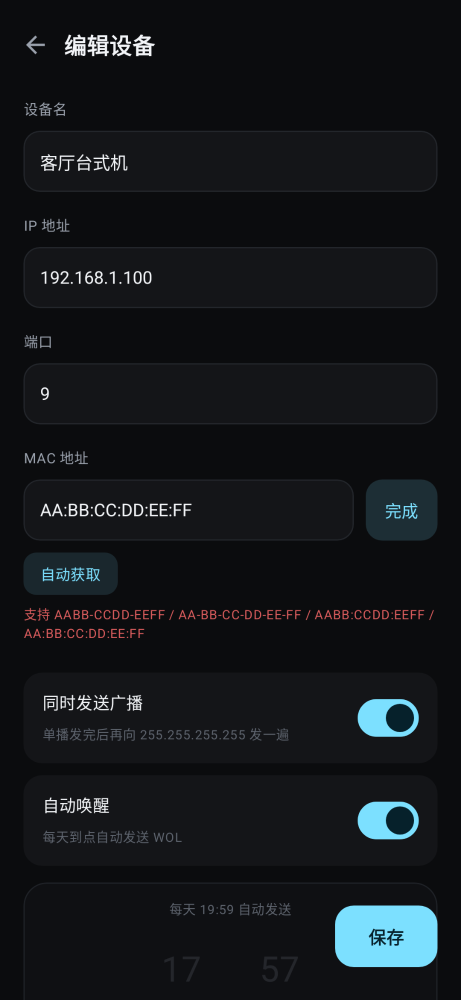
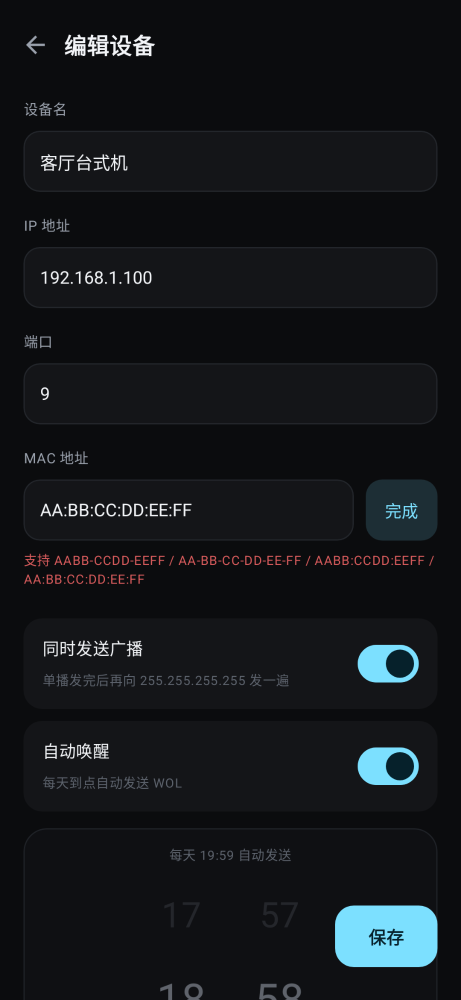
v1.0.8: 去掉 MAC 自动获取 / ICMP 报文诊断与原始输出入日志 / 修复返回转场方向

diff --git a/app/src/main/java/com/starchen/wol/wol/Prober.kt b/app/src/main/java/com/starchen/wol/wol/Prober.kt
@@ -51,6 +51,8 @@ data class ProbeResult(
     val udpPackets: List<UdpReply> = emptyList(),
     val pingOk: Boolean? = null,
     val pingDetail: String = "",
+    val pingRaw: String = "",
+    val diagnosis: String = "",
     val openPorts: List<Int> = emptyList(),
     val elapsedMs: Long = 0
 ) {
@@ -144,7 +146,7 @@ object Prober {
                 }
             }
 
-            val (pingOk, pingDetail) = pingJob.await()
+            val ping = pingJob.await()
             val hits = portJob.await()
 
             records += PacketRecord(
@@ -153,10 +155,10 @@ object Prober {
                 src = ip,
                 dst = "本机",
                 bytes = null,
-                note = if (pingOk == true) {
-                    "echo reply · ${pingDetail.ifBlank { "通" }}"
+                note = if (ping.ok == true) {
+                    "echo reply · ${ping.detail.ifBlank { "通" }}"
                 } else {
-                    "无响应（系统 ping 拿不到原始帧）"
+                    "无 ICMP 回应 · ${ping.diagnosis}"
                 }
             )
 
@@ -184,8 +186,10 @@ object Prober {
             ProbeResult(
                 packets = records.toList(),
                 udpPackets = udpReplies.toList(),
-                pingOk = pingOk,
-                pingDetail = pingDetail,
+                pingOk = ping.ok,
+                pingDetail = ping.detail,
+                pingRaw = ping.raw,
+                diagnosis = ping.diagnosis,
                 openPorts = hits.map { it.port },
                 elapsedMs = System.currentTimeMillis() - started
             )
@@ -202,8 +206,18 @@ object Prober {
         }
     }
 
-    /** 调系统 ping，普通应用也能用 /system/bin/ping */
-    private fun ping(ip: String, timeoutMs: Long): Pair<Boolean?, String> {
+    private data class PingOutcome(
+        val ok: Boolean?,
+        val detail: String,
+        val raw: String,
+        val diagnosis: String
+    )
+
+    /**
+     * 调系统 ping，普通应用也能用 /system/bin/ping。
+     * 原始输出原样留着 —— 日志里要记，而且诊断结论就是从它里面读出来的。
+     */
+    private fun ping(ip: String, timeoutMs: Long): PingOutcome {
         return try {
             val process = ProcessBuilder(
                 "ping", "-c", "1", "-W", "${(timeoutMs / 1000).coerceAtLeast(1)}", ip
@@ -211,9 +225,52 @@ object Prober {
             val text = BufferedReader(InputStreamReader(process.inputStream)).use { it.readText() }
             val finished = process.waitFor()
             val line = text.lineSequence().firstOrNull { it.contains("bytes from") || it.contains("time=") }
-            (finished == 0) to (line?.trim() ?: if (finished == 0) "通" else "")
+            val ok = finished == 0
+            PingOutcome(
+                ok = ok,
+                detail = line?.trim() ?: if (ok) "通" else "",
+                raw = text.trim(),
+                diagnosis = diagnose(ok, text)
+            )
         } catch (e: Exception) {
-            null to (e.message ?: "")
+            PingOutcome(
+                ok = false,
+                detail = e.message ?: "",
+                raw = "",
+                diagnosis = "ping 没跑起来：${e.message ?: e.javaClass.simpleName}"
+            )
+        }
+    }
+
+    /**
+     * 把 ping 的原始输出翻成人话。
+     *
+     * ICMP 报文本身普通应用是拿不到的（要 raw socket），但 ping 打出来的
+     * 那几行已经包含判定所需的一切：ttl、往返时间、主机/网络不可达、丢包率。
+     */
+    private fun diagnose(ok: Boolean, raw: String): String {
+        val lower = raw.lowercase()
+        if (ok) {
+            val ttl = Regex("ttl=(\\d+)").find(lower)?.groupValues?.get(1)
+            val time = Regex("time=([\\d.]+)").find(lower)?.groupValues?.get(1)
+            return buildString {
+                append("目标有 ICMP 回应")
+                if (ttl != null) append("，ttl=$ttl")
+                if (time != null) append("，往返 ${time}ms")
+                append("。机器在线，这次唤醒大概率成了。")
+            }
+        }
+        return when {
+            lower.contains("destination host unreachable") ->
+                "ICMP 主机不可达：网关说找不到这台机器。多半是 ARP 解析失败 —— IP 不在本网段，或者机器压根没起来。"
+            lower.contains("destination net unreachable") || lower.contains("network is unreachable") ->
+                "网络不可达：本机路由里没有到该网段的路，先检查 WiFi 连没连、IP 填没填错。"
+            lower.contains("100% packet loss") || lower.contains("request timeout") || lower.contains("timed out") ->
+                "1 秒内没有收到任何 ICMP 回应。WOL 刚发出去时机箱还在自检，等半分钟再点一次；如果一直如此，通常是网卡没开 WOL、IP 变了，或者防火墙把 ICMP 丢了。"
+            raw.isBlank() ->
+                "没有输出，系统里可能没有 ping 命令。"
+            else ->
+                "没有 ICMP 回应：" + raw.lineSequence().lastOrNull { it.isNotBlank() }.orEmpty().trim().take(80)
         }
     }
 

diff --git a/app/src/main/java/com/starchen/wol/ui/DeviceEditorScreen.kt b/app/src/main/java/com/starchen/wol/ui/DeviceEditorScreen.kt
@@ -37,7 +37,6 @@ import androidx.compose.runtime.Composable
 import androidx.compose.runtime.getValue
 import androidx.compose.runtime.mutableStateOf
 import androidx.compose.runtime.remember
-import androidx.compose.runtime.rememberCoroutineScope
 import androidx.compose.runtime.saveable.rememberSaveable
 import androidx.compose.runtime.setValue
 import androidx.compose.ui.Alignment
@@ -60,10 +59,7 @@ import com.starchen.wol.ui.theme.Surface2
 import com.starchen.wol.ui.theme.TextPrimary
 import com.starchen.wol.ui.theme.TextSecondary
 import com.starchen.wol.ui.theme.TextTertiary
-import com.starchen.wol.util.LogStore
-import com.starchen.wol.wol.ArpLookup
 import com.starchen.wol.wol.MacUtils
-import kotlinx.coroutines.launch
 
 @Composable
 fun DeviceEditorScreen(
@@ -81,11 +77,7 @@ fun DeviceEditorScreen(
     var minute by rememberSaveable { mutableStateOf(existing?.autoWakeMinute ?: 0) }
     var macTouched by remember { mutableStateOf(false) }
     var submitted by remember { mutableStateOf(false) }
-    var arpBusy by remember { mutableStateOf(false) }
-    var arpHint by remember { mutableStateOf<String?>(null) }
-    var arpHintOk by remember { mutableStateOf(false) }
     val context = androidx.compose.ui.platform.LocalContext.current
-    val scope = rememberCoroutineScope()
 
     val macValid = MacUtils.normalize(mac) != null
     val ipValid = isValidIpv4(ip.trim())
@@ -182,62 +174,6 @@ fun DeviceEditorScreen(
                             color = if (macValid) Accent else TextSecondary,
                             fontSize = 14.sp,
                             fontWeight = FontWeight.Medium
-                        )
-                    }
-                }
-                Spacer(Modifier.height(10.dp))
-                Row(verticalAlignment = Alignment.CenterVertically) {
-                    Box(
-                        modifier = Modifier
-                            .height(36.dp)
-                            .clip(RoundedCornerShape(11.dp))
-                            .background(if (arpBusy) Surface2 else Accent.copy(alpha = 0.13f))
-                            .clickable(enabled = !arpBusy) {
-                                val target = ip.trim()
-                                if (!isValidIpv4(target)) {
-                                    arpHintOk = false
-                                    arpHint = "先填一个正确的 IP"
-                                    return@clickable
-                                }
-                                arpBusy = true
-                                arpHint = null
-                                scope.launch {
-                                    val found = ArpLookup.resolve(target)
-                                    arpBusy = false
-                                    if (found != null) {
-                                        mac = found
-                                        macTouched = true
-                                        arpHintOk = true
-                                        arpHint = "已获取 $found"
-                                        LogStore.info(context, "ARP", "$target → $found")
-                                    } else {
-                                        arpHintOk = false
-                                        arpHint = if (ArpLookup.readable()) {
-                                            "没找到记录，设备可能不在线"
-                                        } else {
-                                            "系统不允许读 ARP 表，只能手填"
-                                        }
-                                        LogStore.warn(context, "ARP", "获取 $target 的 MAC 失败")
-                                    }
-                                }
-                            }
-                            .padding(horizontal = 14.dp),
-                        contentAlignment = Alignment.Center
-                    ) {
-                        Text(
-                            if (arpBusy) "获取中…" else "自动获取",
-                            color = if (arpBusy) TextTertiary else Accent,
-                            fontSize = 12.5.sp,
-                            fontWeight = FontWeight.Medium
-                        )
-                    }
-                    arpHint?.let { hint ->
-                        Spacer(Modifier.width(10.dp))
-                        Text(
-                            hint,
-                            color = if (arpHintOk) Accent.copy(alpha = 0.85f) else TextTertiary,
-                            fontSize = 11.sp,
-                            lineHeight = 15.sp
                         )
                     }
                 }

diff --git a/app/src/main/java/com/starchen/wol/MainActivity.kt b/app/src/main/java/com/starchen/wol/MainActivity.kt
@@ -121,6 +121,9 @@ private sealed interface Screen {
     data class Editor(val device: Device?) : Screen
 }
 
+private val Screen.depth: Int
+    get() = if (this is Screen.Home) 0 else 1
+
 @Composable
 private fun AppRoot(
     viewModel: MainViewModel,
@@ -140,8 +143,21 @@ private fun AppRoot(
     AnimatedContent(
         targetState = screen,
         transitionSpec = {
-            (slideInHorizontally(tween(260)) { it / 4 } + fadeIn(tween(200)))
-                .togetherWith(slideOutHorizontally(tween(220)) { -it / 6 } + fadeOut(tween(160)))
+            // 进二级页：新页从右边推入，旧页往左让位；
+            // 返回主页：反过来，旧页往右退出，主页从左边滑回来。
+            val forward = targetState.depth >= initialState.depth
+            val enterSlide = if (forward) {
+                slideInHorizontally(tween(260)) { it / 4 }
+            } else {
+                slideInHorizontally(tween(260)) { -it / 4 }
+            }
+            val exitSlide = if (forward) {
+                slideOutHorizontally(tween(220)) { -it / 6 }
+            } else {
+                slideOutHorizontally(tween(220)) { it / 4 }
+            }
+            (enterSlide + fadeIn(tween(200)))
+                .togetherWith(exitSlide + fadeOut(tween(160)))
         },
         label = "nav"
     ) { target ->
@@ -302,6 +318,15 @@ private fun WakeDialog(state: WakeUiState, onDismiss: () -> Unit) {
                             fontSize = 11.sp,
                             lineHeight = 17.sp
                         )
+                        state.probe?.takeIf { it.diagnosis.isNotBlank() }?.let { p ->
+                            Spacer(Modifier.height(7.dp))
+                            Text(
+                                p.diagnosis,
+                                color = if (p.pingOk == true) Accent.copy(alpha = 0.9f) else TextTertiary,
+                                fontSize = 11.sp,
+                                lineHeight = 17.sp
+                            )
+                        }
 
                         val packets = state.probe?.packets.orEmpty()
                         if (packets.isNotEmpty()) {

diff --git a/app/src/main/java/com/starchen/wol/ui/MainViewModel.kt b/app/src/main/java/com/starchen/wol/ui/MainViewModel.kt
@@ -125,6 +125,17 @@ class MainViewModel(app: Application) : AndroidViewModel(app) {
             )
             socket?.close()
             LogStore.info(context, "PROBE", "${device.ip} ${probe.title} · ${probe.summary().replace("\n", " ")}")
+            LogStore.info(context, "ICMP", "${device.ip} ${probe.diagnosis}")
+            if (probe.pingRaw.isNotBlank()) {
+                LogStore.info(
+                    context,
+                    "ICMP",
+                    "原始输出: " + probe.pingRaw.replace("\n", " / ").take(600)
+                )
+            }
+            probe.udpPackets.forEach { r ->
+                LogStore.info(context, "UDP", "回包 ${r.from} ${r.size}B ${r.preview}")
+            }
             wakeState.value = WakeUiState(device.name, sending = false, report = report, probe = probe)
         }
     }

diff --git a/app/src/main/java/com/starchen/wol/ui/SettingsScreen.kt b/app/src/main/java/com/starchen/wol/ui/SettingsScreen.kt
@@ -209,7 +209,7 @@ fun SettingsScreen(
 
                 Spacer(Modifier.height(30.dp))
                 Text(
-                    "StarWOL 1.0.7",
+                    "StarWOL 1.0.8",
                     color = TextTertiary,
                     fontSize = 11.sp,
                     modifier = Modifier.fillMaxWidth(),

diff --git a/README.md b/README.md
@@ -5,12 +5,13 @@
 ## 功能
 
 - 设备卡片：右侧两个按钮分别唤醒和编辑，长按删除
-- MAC 支持 `AABB-CCDD-EEFF` / `AA-BB-CC-DD-EE-FF` / `AABB:CCDD:EEFF` / `AA:BB:CC:DD:EE:FF`，
-  也可以点「自动获取」从内核 ARP 表读（先填 IP，设备在同网段在线过才读得到）
+- MAC 支持 `AABB-CCDD-EEFF` / `AA-BB-CC-DD-EE-FF` / `AABB:CCDD:EEFF` / `AA:BB:CC:DD:EE:FF`，填完点「完成」归一化
 - 发送单播 magic packet 到 `IP:端口`，可选再向 `255.255.255.255` 广播一遍
 - 发出后探测目的 IP 的回包（UDP 监听 + ICMP ping + 常见端口探测）
 - 唤醒弹窗里可以展开「原始报文」，按 hexdump 显示抓到的字节：自己发的 magic packet、
   UDP 回包、TCP banner。ICMP 走系统 ping，拿不到原始帧，只能记一行文本
+- ICMP 诊断：通了会报 ttl 和往返时间；不通会区分主机不可达 / 网络不可达 / 超时丢包，
+  并把 ping 的原始输出写进日志
 - 每天定时自动唤醒，滚轮选时间（24h 循环）
 - 保活：设置页逐项申请通知、电池优化豁免、精确闹钟、自启动、耗电管理、无障碍
 - 运行日志：设置页实时查看、导出分享、落盘到应用私有目录，显示与落盘各有开关（默认开）
